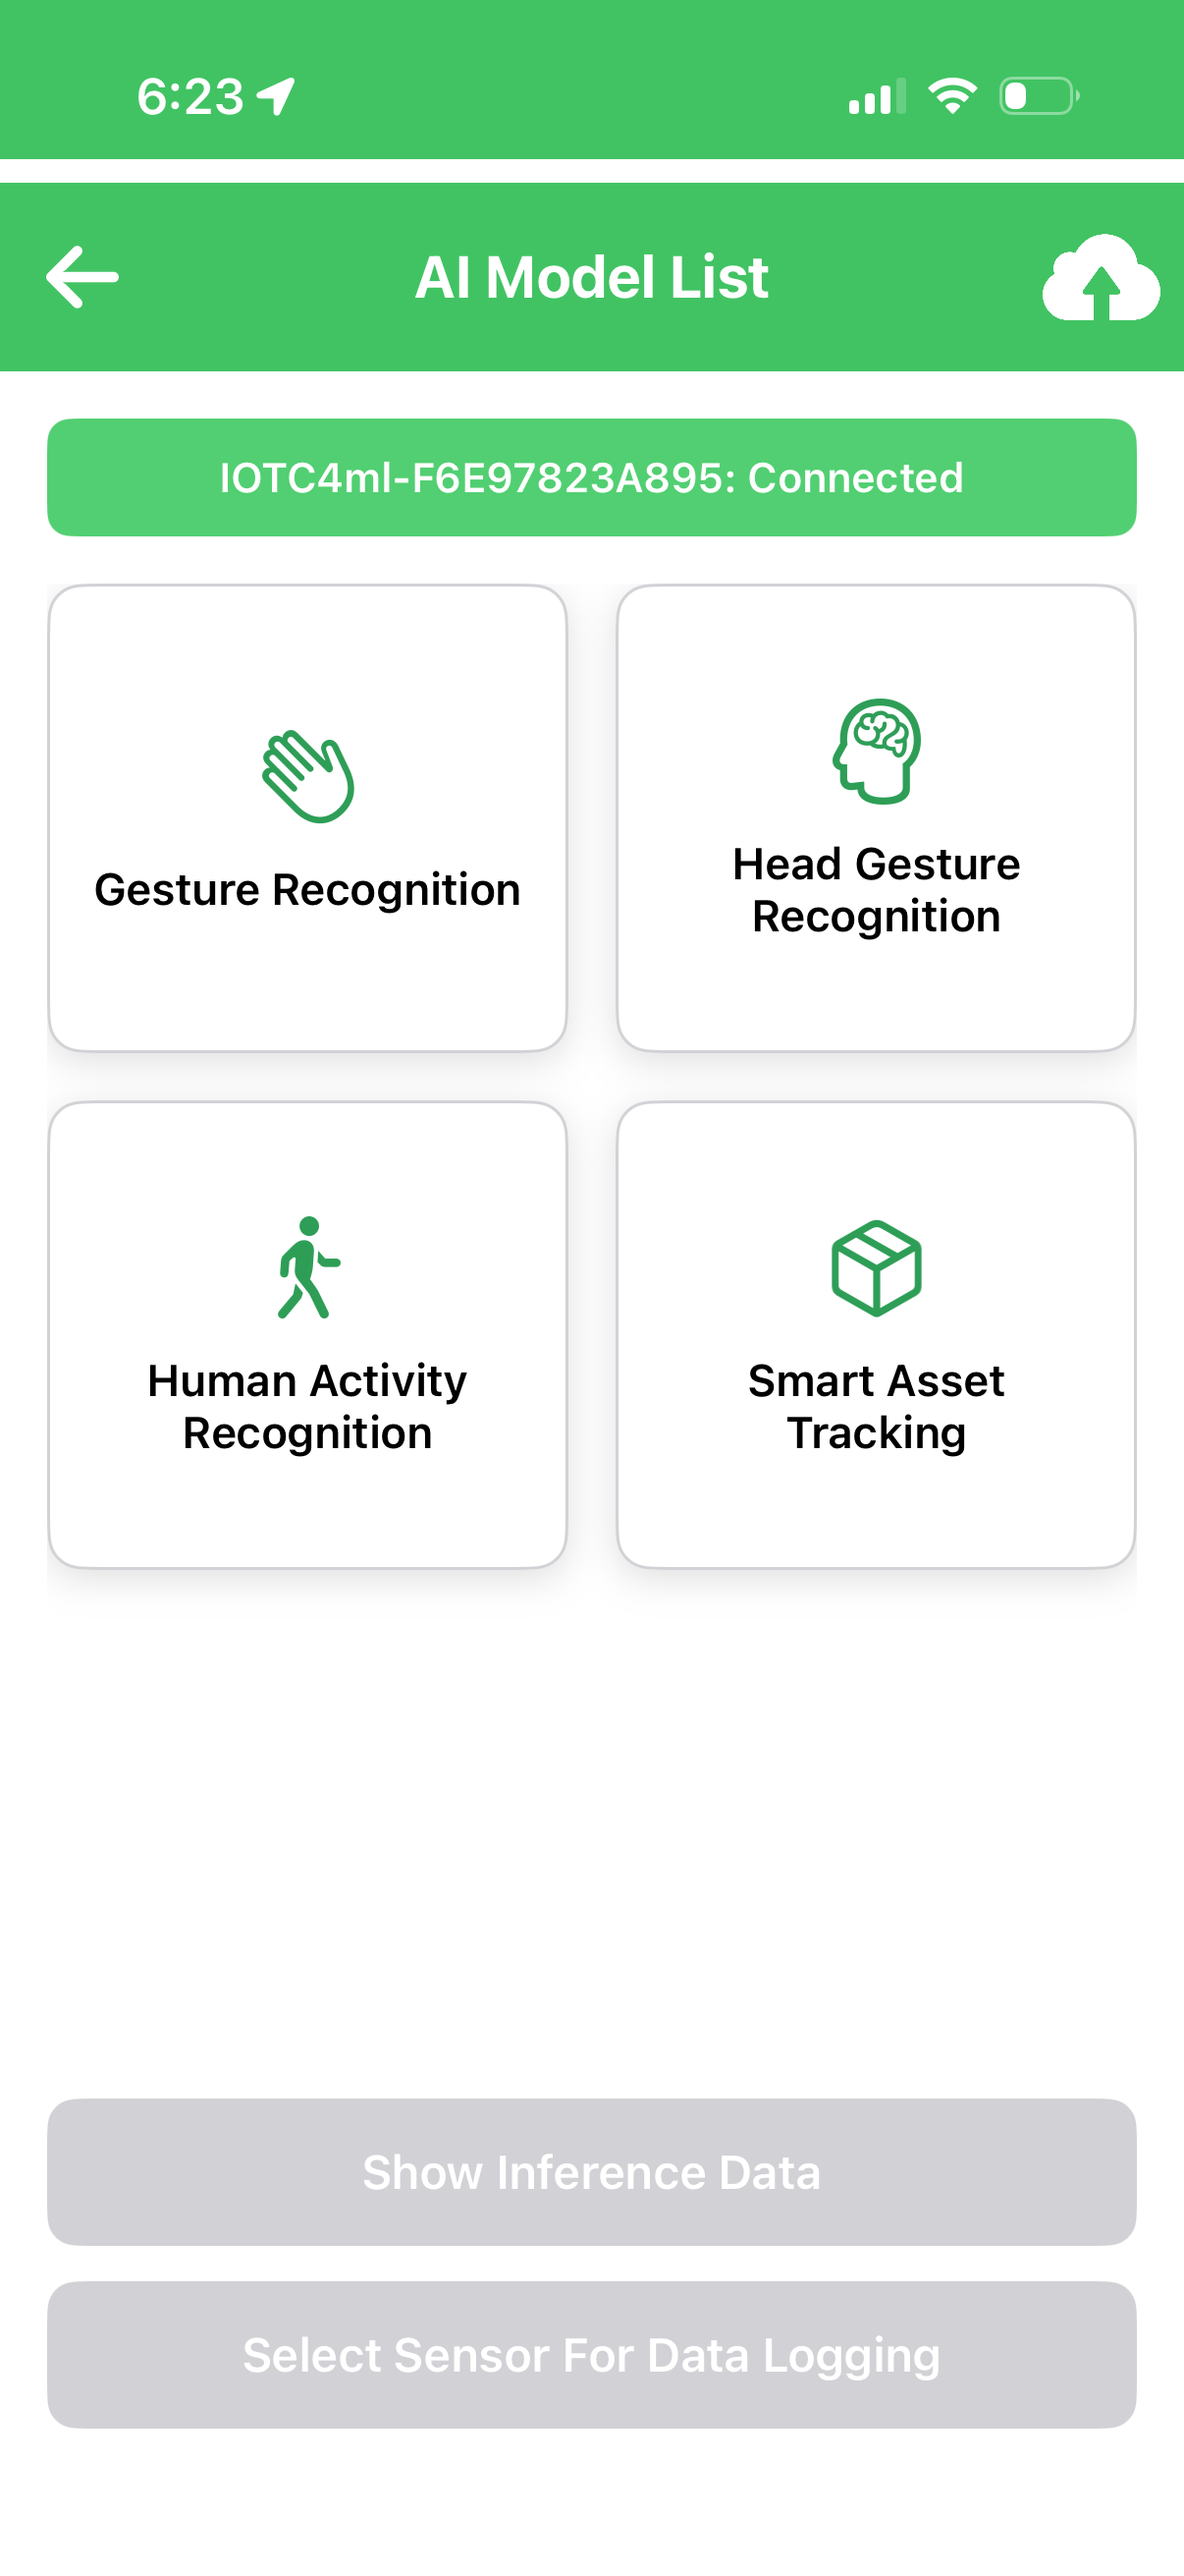
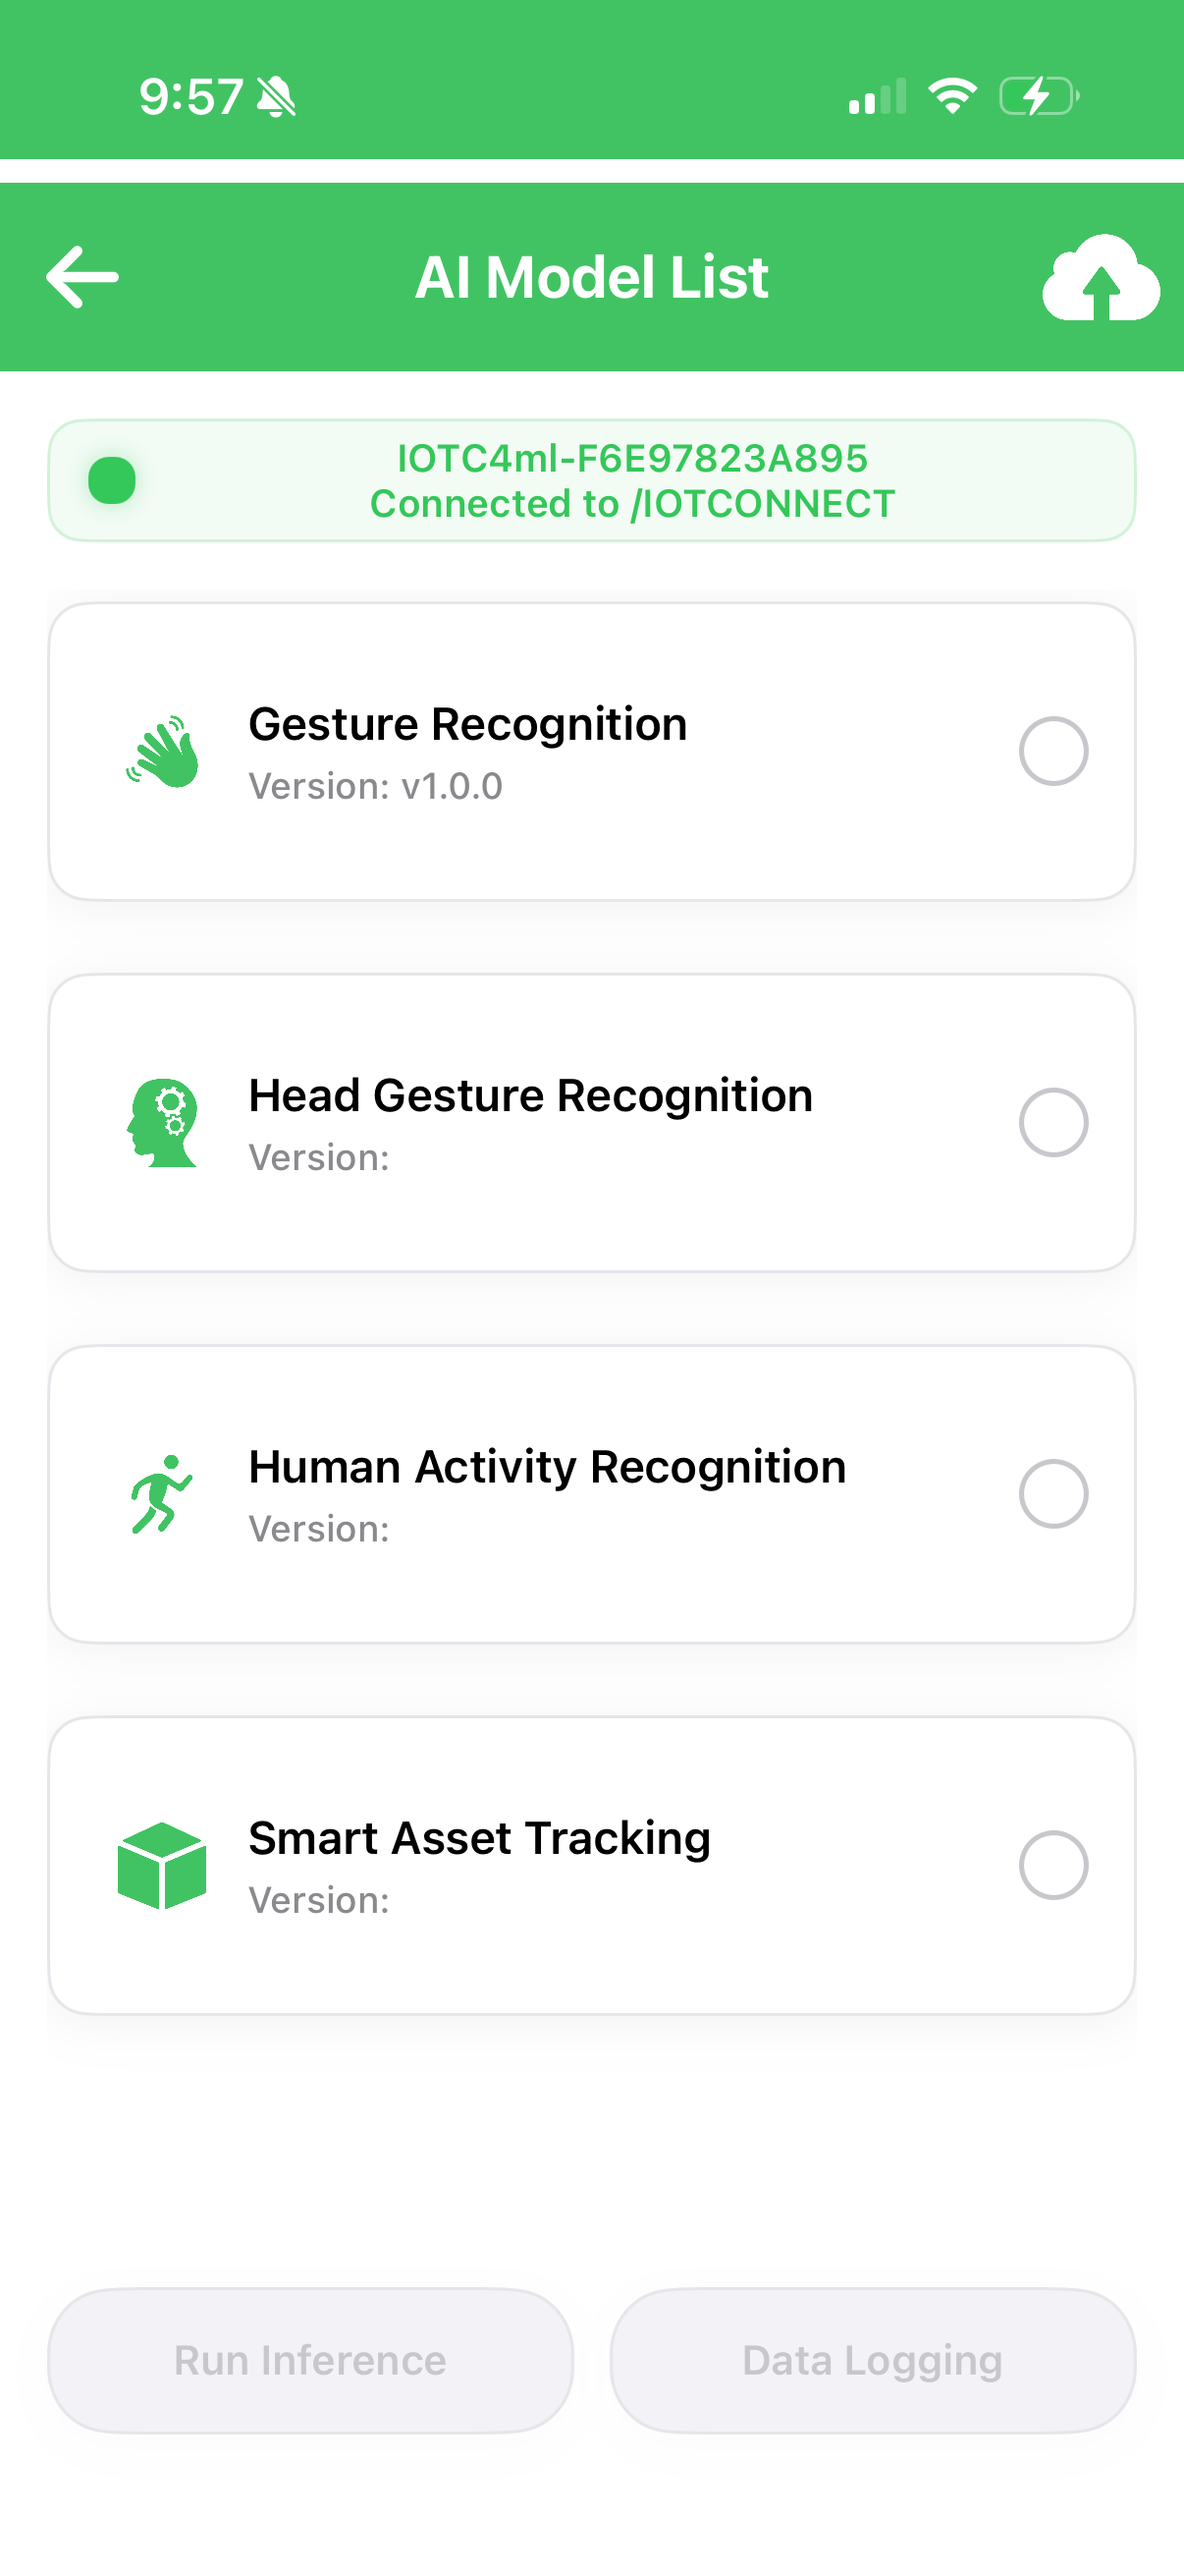
Update AI Model List to the new list UI and rename mode buttons
- Replace the AI Model List screenshots with the new list layout
  (radio per model + "Connected to /IOTCONNECT" banner): connected
  shot and the Run Inference annotated shot
- The bottom buttons were renamed in the app: "Show Inference Data" ->
  "Run Inference" and "Select Sensor For Data Logging" -> "Data
  Logging". Propagate that rename across Lab 1, Lab 2, and the guide,
  and regenerate dashboard_instructions.png to match
- Reword the model-selection text from grid/card ("filled dark green")
  to the list ("tap the model; its radio fills green"), and fix the
  stale "/IOTCONNECT Details sheet" reference to the connected banner

diff --git a/st_aiotcraft_lab1_deploy.md b/st_aiotcraft_lab1_deploy.md
@@ -204,11 +204,11 @@ The Bridge App receives the OTA over BLE and writes the model to the SensorTile.
 
 ## 11. View Live Inference on the Phone
 
-After pairing, the Bridge App lands on the **AI Model List** screen with the models available for your device. If your model has been pushed to the device, the model card will be filled dark green — in the screenshot below, **Smart Asset Tracking** is the active card. If yours isn't filled green, redeploy the model from Step 10.
+After pairing, the Bridge App lands on the **AI Model List** screen, which lists the models available for your device, each with a radio button. Tap **Smart Asset Tracking** to select it — its radio fills green and the row is highlighted (as in the screenshot below). If it isn't listed, redeploy the model from Step 10.
 
-Tap **Show Inference Data** at the bottom (highlighted in red below). The app pushes the device into inference mode and starts streaming MLC results.
+Then tap **Run Inference** at the bottom (highlighted in red below). The app pushes the device into inference mode and starts streaming MLC results.
 
-<img src="images/st_aiotcraft/25_ai_model_list_annotated.png" alt="AI Model List — tap Show Inference Data" width="180"/>
+<img src="images/st_aiotcraft/25_ai_model_list_annotated.png" alt="AI Model List — tap Run Inference" width="180"/>
 
 The app then downloads the model bundle (if not already cached) and applies the configuration to the box:
 
@@ -228,8 +228,8 @@ The inference classifications stream to /IOTCONNECT, ready for the dashboard you
 
 > **Two modes — only one produces data at a time**
 > The SensorTile.box PRO runs in **one of two modes** at any moment, and **only the active mode produces data** — the other mode's attributes stay **null** in /IOTCONNECT:
-> - **Inference mode** (**Show Inference Data**, this step) → the MLC **classification** attributes update; the raw accelerometer / gyroscope attributes are null.
-> - **Data-logging mode** (**Select Sensor For Data Logging**) → the raw **sensor** attributes update; the inference attributes are null.
+> - **Inference mode** (**Run Inference**, this step) → the MLC **classification** attributes update; the raw accelerometer / gyroscope attributes are null.
+> - **Data-logging mode** (**Data Logging**) → the raw **sensor** attributes update; the inference attributes are null.
 >
 > So the dashboard you build next shows live **inference** results while you're in inference mode. To see raw accel / gyro values populate instead, you switch the box into data-logging mode — that's the capture flow you'll walk through in **[Lab 2](./st_aiotcraft_lab2_train.md)**.
 
@@ -288,7 +288,7 @@ Keep the dashboard visible while you put the box through each class the *Smart A
 | Set the box flat | Tip it on its side | Move it around | Shake it briefly |
 | → **Stationary Upright** | → **Stationary Not Upright** | → **Motion** | → **Shaken** |
 
-The widget should change classes within a second or two of each pose. If a class never lights up, re-check the device is still in **Show Inference Data** mode in the Bridge App and that the Bridge App still shows **CONNECTED** in the **/IOTCONNECT Details** sheet.
+The widget should change classes within a second or two of each pose. If a class never lights up, re-check the device is still in **Run Inference** mode in the Bridge App and that the AI Model List still shows **Connected to /IOTCONNECT** at the top.
 
 **Confirm the data reached the cloud**
 
@@ -300,7 +300,7 @@ If Live Data is empty but the Bridge App's inference screen is still showing cla
 
 > **CHECKPOINT**
 > Before moving on, confirm three things are true at the same time:
-> 1. The Bridge App is in **Show Inference Data** mode and class labels are changing as you pose the box.
+> 1. The Bridge App is in **Run Inference** mode and class labels are changing as you pose the box.
 > 2. The dashboard's **Smart Asset Monitoring** widget is tracking those class changes within a second or two.
 > 3. **Device Info → Live Data** shows fresh JSON payloads with the MLC **class** fields populated (the raw sensor fields being null is expected in this mode).
 >
@@ -336,7 +336,7 @@ The dashboard's **Alerts** and **Notifications** widgets stay empty until a **Ru
 
    <img src="images/st_aiotcraft/rules_notification_annotated.png" alt="Choose UI Alert notification and Save" width="700"/>
 
-Now switch the box back to inference mode (**Show Inference Data**) and **shake it**. When `inference_state` hits `shaken`, the rule fires and the alert appears in the **Notifications** widget on your dashboard (and under the bell icon in the top bar).
+Now switch the box back to inference mode (**Run Inference**) and **shake it**. When `inference_state` hits `shaken`, the rule fires and the alert appears in the **Notifications** widget on your dashboard (and under the bell icon in the top bar).
 
 ## Lab 1 Recap
 

diff --git a/st_aiotcraft_guide.md b/st_aiotcraft_guide.md
@@ -211,11 +211,11 @@ The Bridge App receives the OTA over BLE and writes the model to the SensorTile.
 
 ## 11. View Live Inference on the Phone
 
-After pairing, the Bridge App lands on the **AI Model List** screen with the models available for your device. If your model has been pushed to the device, the model card will be filled dark green — in the screenshot below, **Smart Asset Tracking** is the active card. If yours isn't filled green, redeploy the model from Step 10.
+After pairing, the Bridge App lands on the **AI Model List** screen, which lists the models available for your device, each with a radio button. Tap **Smart Asset Tracking** to select it — its radio fills green and the row is highlighted (as in the screenshot below). If it isn't listed, redeploy the model from Step 10.
 
-Tap **Show Inference Data** at the bottom (highlighted in red below). The app pushes the device into inference mode and starts streaming MLC results.
+Then tap **Run Inference** at the bottom (highlighted in red below). The app pushes the device into inference mode and starts streaming MLC results.
 
-<img src="images/st_aiotcraft/25_ai_model_list_annotated.png" alt="AI Model List — tap Show Inference Data" width="180"/>
+<img src="images/st_aiotcraft/25_ai_model_list_annotated.png" alt="AI Model List — tap Run Inference" width="180"/>
 
 The app then downloads the model bundle (if not already cached) and applies the configuration to the box:
 
@@ -235,8 +235,8 @@ The inference classifications stream to /IOTCONNECT, ready for the dashboard in 
 
 > **Two modes — only one produces data at a time**
 > The SensorTile.box PRO runs in **one of two modes** at any moment, and **only the active mode produces data** — the other mode's attributes stay **null** in /IOTCONNECT:
-> - **Inference mode** (**Show Inference Data**, this step) → the MLC **classification** attributes update; the raw accelerometer / gyroscope attributes are null.
-> - **Data-logging mode** (**Select Sensor For Data Logging**) → the raw **sensor** attributes update; the inference attributes are null.
+> - **Inference mode** (**Run Inference**, this step) → the MLC **classification** attributes update; the raw accelerometer / gyroscope attributes are null.
+> - **Data-logging mode** (**Data Logging**) → the raw **sensor** attributes update; the inference attributes are null.
 >
 > So the dashboard you build next shows live **inference** results while you're in inference mode. To see raw accel / gyro values populate instead, you switch the box into data-logging mode — that's the capture flow in **Step 13**.
 
@@ -314,13 +314,13 @@ The dashboard's **Alerts** and **Notifications** widgets stay empty until a **Ru
 
    <img src="images/st_aiotcraft/rules_notification_annotated.png" alt="Choose UI Alert notification and Save" width="700"/>
 
-With the box in inference mode (**Show Inference Data**), **shake it**. When `inference_state` hits `shaken`, the rule fires and the alert appears in the **Notifications** widget on your dashboard (and under the bell icon in the top bar).
+With the box in inference mode (**Run Inference**), **shake it**. When `inference_state` hits `shaken`, the rule fires and the alert appears in the **Notifications** widget on your dashboard (and under the bell icon in the top bar).
 
 ## 13. Capture Labeled Sensor Data for Training
 
 This is the half of the loop that feeds **ST AIoT Craft**. Logging mode swaps the device out of inference and streams raw sensor samples into a session that gets zipped and uploaded to /IOTCONNECT.
 
-* From the Bridge App's **AI Model List**, tap **Select Sensor For Data Logging**.
+* From the Bridge App's **AI Model List**, tap **Data Logging**.
 * Choose the sensor(s) you want to record (e.g. **Accelerometer**, **Gyroscope**) and tap **Start**.
 
   <img src="images/st_aiotcraft/39_select_sensor.png" alt="Select Sensor" width="240"/>
@@ -419,7 +419,7 @@ Once one or more labeled sessions are sitting in /IOTCONNECT, the connector you 
 To verify a freshly trained model:
 
 1. /IOTCONNECT → **AI Models → Push Model** → select your new model → **Push**.
-2. In the Bridge App, return to **AI Model List** (if connected the new model appears) and tap **Show Inference Data** to switch the box back into inference mode.
+2. In the Bridge App, return to **AI Model List** (if connected the new model appears) and tap **Run Inference** to switch the box back into inference mode.
 3. Watch the dashboard — your model is now running on real hardware.
 
 > **Capture → Upload → Train → Deploy → Inference → (capture more) → Retrain**

diff --git a/st_aiotcraft_lab2_train.md b/st_aiotcraft_lab2_train.md
@@ -25,7 +25,7 @@ This is the half of the loop that feeds **ST AIoT Craft**. Logging mode swaps th
 
 **Pick the sensor**
 
-From the Bridge App's **AI Model List**, tap **Select Sensor For Data Logging**. On the Select Sensor screen:
+From the Bridge App's **AI Model List**, tap **Data Logging**. On the Select Sensor screen:
 
 1. Tap **① Accelerometer**. The Start button activates as soon as a sensor is selected.
 2. Tap **② Start**.
@@ -141,7 +141,7 @@ Once one or more labeled sessions are sitting in /IOTCONNECT, the connector you 
 To verify a freshly trained model:
 
 1. /IOTCONNECT → **AI Models → Push Model** → select your new model → **Push**.
-2. In the Bridge App, return to **AI Model List** (the new model appears) and tap **Show Inference Data** to switch the box back into inference mode.
+2. In the Bridge App, return to **AI Model List** (the new model appears) and tap **Run Inference** to switch the box back into inference mode.
 3. Open the dashboard you built in **Lab 1 Step 12** — your model is now running on real hardware, and the classifications and raw telemetry flow into the same widgets you exercised at the end of Lab 1.
 
 > **Capture → Upload → Train → Deploy → Inference → (capture more) → Retrain**
